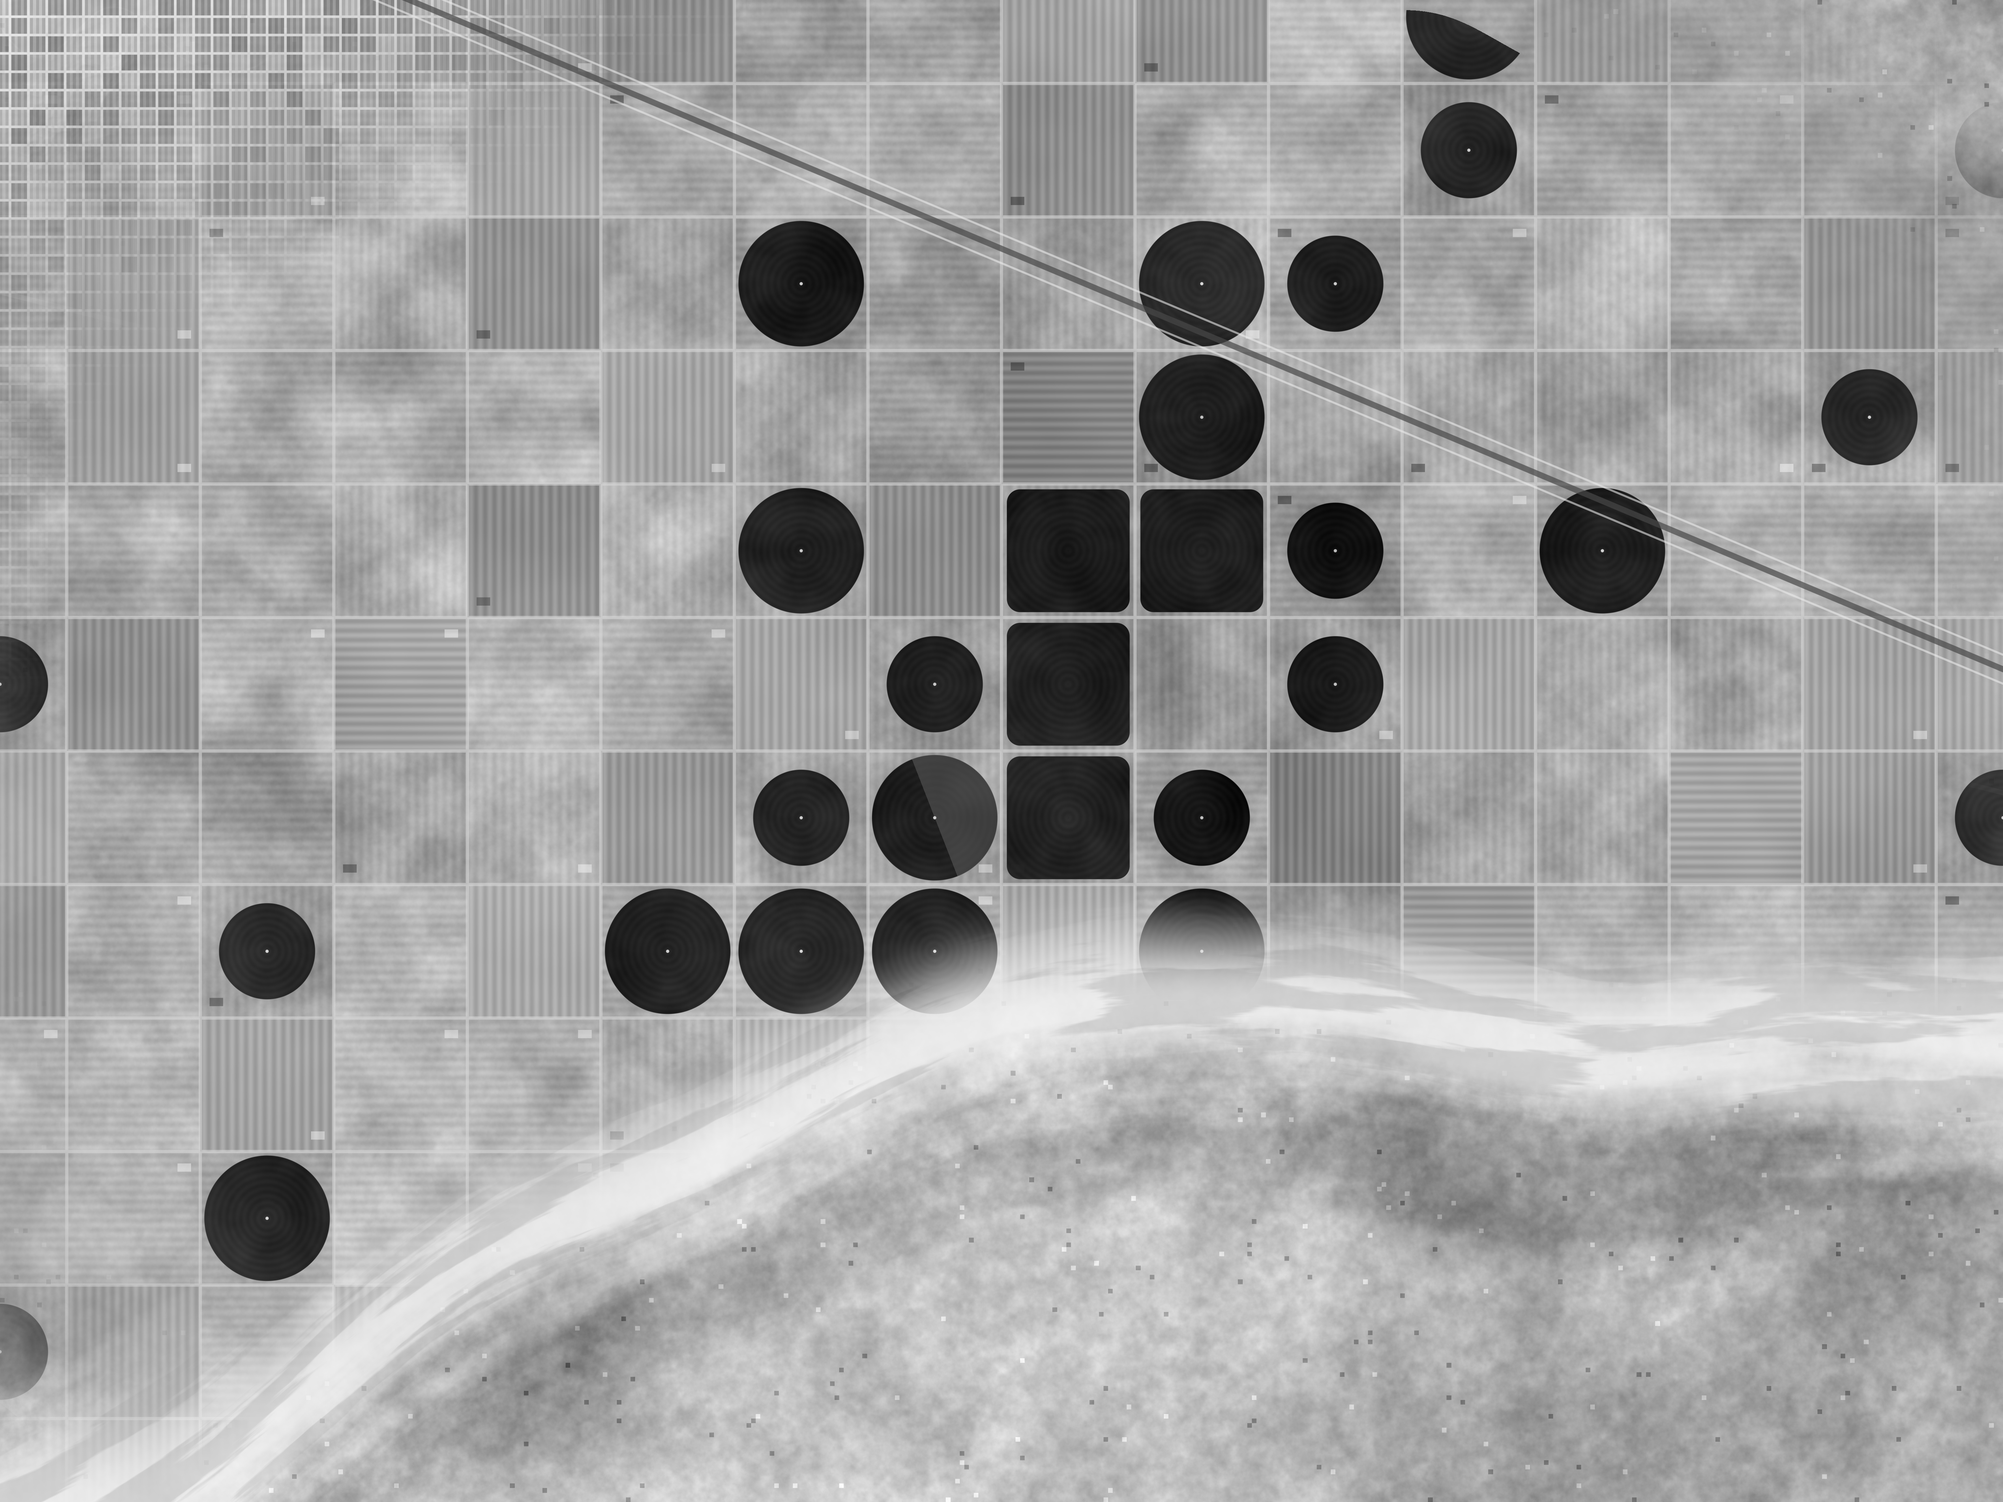
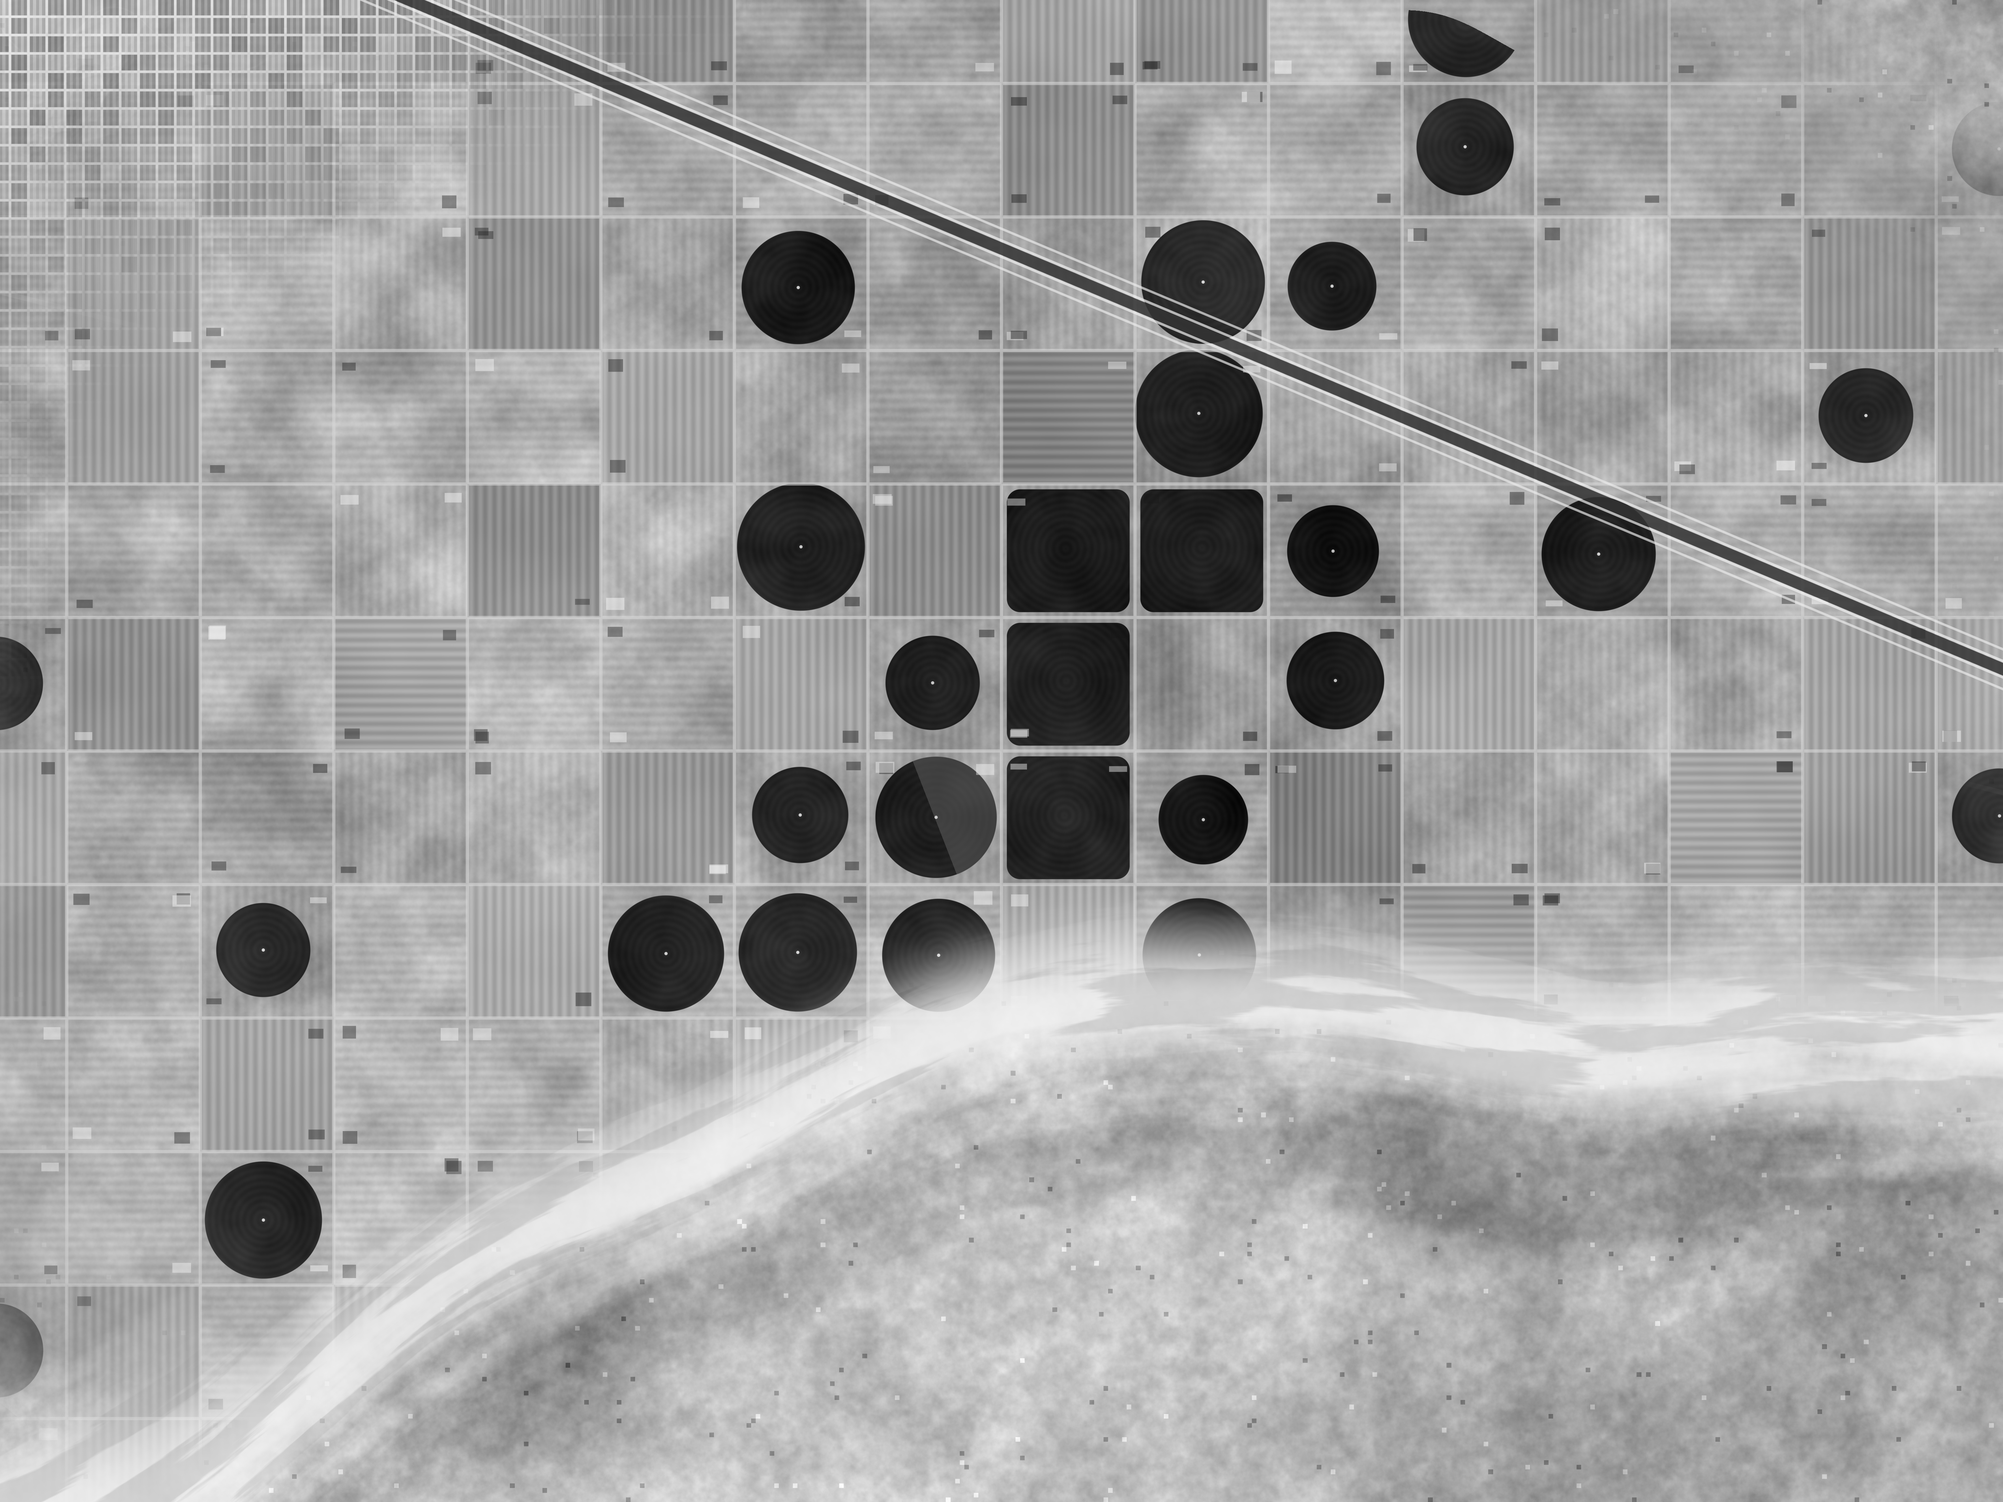
Satellite: apply QA review fixes (reticle scale, grade, halo timing, close-up detail); BT.709 output
Claude-Session: https://claude.ai/code/session_01D5eAzeygGp59oYigrUuiBk

diff --git a/hud-compositions/src/satellite/CloseHud.tsx b/hud-compositions/src/satellite/CloseHud.tsx
@@ -6,7 +6,7 @@ import { CrossMarker, CrossNode, DotMarker, LetterBadge } from "./icons";
 import { SatellitePalette } from "./palette";
 import { CLOSE_TARGET, SatelliteVariant, T } from "./timeline";
 
-const R = 230; // reticle radius, design px
+const R = 360; // reticle radius, design px
 const NODE_ANGLES = [-150, -112, -62, -24, 12, 52, 100, 128, 158, 196];
 // Inner relay points (fraction of R) joined to the centre by dashed lines.
 const RELAYS: { a: number; f: number; to: "center" | "left" | "right" | "bottom" }[] = [
@@ -85,17 +85,17 @@ export const CloseHud: React.FC<{
         ))}
       </g>
       {/* Corner brackets */}
-      <g stroke={palette.amber} strokeWidth={2.5} fill="none" opacity={brackets}>
+      <g stroke={palette.amber} strokeWidth={4} fill="none" opacity={brackets}>
         {[
           [-1, -1],
           [1, -1],
           [-1, 1],
           [1, 1],
         ].map(([sx, sy], i) => {
-          const s = 300 + (1 - brackets) * 60;
+          const s = 430 + (1 - brackets) * 60;
           const x = c.x - 40 + sx * s;
           const y = c.y - 30 + sy * s * 0.92;
-          return <path key={i} d={`M${x} ${y - sy * 50}L${x} ${y}L${x - sx * 50} ${y}`} />;
+          return <path key={i} d={`M${x} ${y - sy * 70}L${x} ${y}L${x - sx * 70} ${y}`} />;
         })}
       </g>
       {/* Reticle ring */}
@@ -112,7 +112,7 @@ export const CloseHud: React.FC<{
       />
       {NODE_ANGLES.map((a, i) => {
         const p = pt(a);
-        return <circle key={i} cx={p.x} cy={p.y} r={9} fill="rgba(12,16,20,0.6)" stroke={palette.white} strokeWidth={3.5} opacity={nodes(i)} />;
+        return <circle key={i} cx={p.x} cy={p.y} r={13} fill="rgba(12,16,20,0.6)" stroke={palette.white} strokeWidth={4.5} opacity={nodes(i)} />;
       })}
       {/* Relays and dashed links */}
       {RELAYS.map((r, i) => {
@@ -121,7 +121,7 @@ export const CloseHud: React.FC<{
         return (
           <g key={i} opacity={o}>
             <line x1={p.x} y1={p.y} x2={c.x} y2={c.y} stroke={palette.white} strokeWidth={2} strokeDasharray="4 6" opacity={0.85} />
-            <circle cx={p.x} cy={p.y} r={8} fill="rgba(12,16,20,0.6)" stroke={palette.white} strokeWidth={3.5} />
+            <circle cx={p.x} cy={p.y} r={12} fill="rgba(12,16,20,0.6)" stroke={palette.white} strokeWidth={4.5} />
           </g>
         );
       })}
@@ -129,15 +129,15 @@ export const CloseHud: React.FC<{
       <line x1={bottom.x} y1={bottom.y} x2={pt(90, 0.5).x} y2={pt(90, 0.5).y} stroke={palette.white} strokeWidth={2} strokeDasharray="3 5" opacity={big} />
       {/* Key nodes */}
       <g transform={`translate(${left.x} ${left.y}) scale(${0.6 + 0.4 * big})`}>
-        <circle r={26} fill="none" stroke={palette.amber} strokeWidth={6} opacity={big} />
-        <CrossNode x={0} y={0} r={15} color={palette.white} opacity={big} />
+        <circle r={40} fill="none" stroke={palette.amber} strokeWidth={8} opacity={big} />
+        <CrossNode x={0} y={0} r={24} color={palette.white} opacity={big} />
       </g>
       <g opacity={hostileFlash}>
-        <CrossNode x={right.x} y={right.y} r={19} color={sideColor} opacity={big} double={!hostile} />
-        <CrossNode x={bottom.x} y={bottom.y} r={19} color={sideColor} opacity={big} double={!hostile} />
+        <CrossNode x={right.x} y={right.y} r={30} color={sideColor} opacity={big} double={!hostile} />
+        <CrossNode x={bottom.x} y={bottom.y} r={30} color={sideColor} opacity={big} double={!hostile} />
       </g>
       {/* Centre target */}
-      <DotMarker x={c.x} y={c.y} r={8} core={palette.red} opacity={ring} />
+      <DotMarker x={c.x} y={c.y} r={12} core={palette.red} opacity={ring} />
       {/* Amber pulses */}
       {T.pulses.map((p0, i) => {
         const t = ramp(frame, p0, p0 + 22);
@@ -163,13 +163,13 @@ export const CloseHud: React.FC<{
         strokeDasharray={`${link} 1`}
       />
       <g transform={`translate(${c.x + R * 0.62} ${c.y - R * 0.78})`} opacity={bar}>
-        <rect width={150 * bar} height={10} fill={palette.amber} />
+        <rect width={190 * bar} height={13} fill={palette.amber} />
         <text y={-6} fontFamily={FONT_MONO} fontSize={9} fill={palette.white} opacity={0.9}>
           TRK 0417 / LOCK
         </text>
       </g>
       {/* Node captions */}
-      <g fontFamily={FONT_MONO} fontSize={8} fill={palette.white} opacity={big * 0.8}>
+      <g fontFamily={FONT_MONO} fontSize={12} fill={palette.white} opacity={big * 0.85}>
         <text x={left.x + 18} y={left.y + 28}>N-01 / 2.41</text>
         <text x={right.x + 22} y={right.y + 4}>N-04 / 1.87</text>
         <text x={bottom.x + 24} y={bottom.y + 4}>N-07 / 3.02</text>
@@ -182,14 +182,14 @@ export const CloseHud: React.FC<{
         const o = flickerIn(frame, T.contacts + i * 5, i + 20);
         return hostile ? (
           <g key={i} opacity={o * hostileFlash}>
-            <DotMarker x={p.x} y={p.y} r={5} core={palette.red} rim={palette.white} opacity={1} />
-            <circle cx={p.x} cy={p.y} r={14} fill="none" stroke={palette.red} strokeWidth={1.5} opacity={0.6} />
+            <DotMarker x={p.x} y={p.y} r={9} core={palette.red} rim={palette.white} opacity={1} />
+            <circle cx={p.x} cy={p.y} r={24} fill="none" stroke={palette.red} strokeWidth={1.5} opacity={0.6} />
           </g>
         ) : (
           <g key={i} opacity={o}>
-            <circle cx={p.x} cy={p.y} r={9} fill="none" stroke={palette.white} strokeWidth={2} />
-            <circle cx={p.x} cy={p.y} r={14} fill="none" stroke={palette.white} strokeWidth={1} strokeDasharray="2 4" />
-            <circle cx={p.x} cy={p.y} r={3} fill={palette.white} />
+            <circle cx={p.x} cy={p.y} r={14} fill="none" stroke={palette.white} strokeWidth={3} />
+            <circle cx={p.x} cy={p.y} r={22} fill="none" stroke={palette.white} strokeWidth={1.5} strokeDasharray="3 5" />
+            <circle cx={p.x} cy={p.y} r={5} fill={palette.white} />
           </g>
         );
       })}
@@ -198,9 +198,9 @@ export const CloseHud: React.FC<{
         y={60}
         textAnchor="end"
         fontFamily={FONT_LABEL}
-        fontSize={14}
+        fontSize={20}
         fill={palette.white}
-        opacity={0.6 * fieldIn}
+        opacity={0.7 * fieldIn}
         letterSpacing={2}
       >
         ZOOM 5.6X · SECTOR 61-A

diff --git a/hud-compositions/src/satellite/terrain.frag.ts b/hud-compositions/src/satellite/terrain.frag.ts
@@ -124,7 +124,9 @@ float farm(vec2 p, float px, float farmMask) {
     code = rnd < dens ? (rnd2 < 0.5 ? 1 : 5) : (rnd2 < 0.5 ? 0 : 4);
   }
   float w = px / cell;
-  float d = length(f);
+  // Organic jitter so pivots are not a perfect lattice.
+  vec2 fj = f - (vec2(rnd, rnd2) - 0.5) * 0.06;
+  float d = length(fj);
   // Bare soil base with plough striping.
   float stripe = 0.5 + 0.5 * sin((rnd2 > 0.5 ? f.x : f.y) * 90.0);
   float soil = 0.62 + 0.3 * (fbm(p * 1.5, px * 1.5, 7) - 0.5) + 0.1 * (rnd - 0.5) + 0.08 * (fbm(p * 12.0, px * 12.0, 4) - 0.5);
@@ -135,7 +137,7 @@ float farm(vec2 p, float px, float farmMask) {
   // Faint wheel-track rings on pivots.
   float rings = 0.012 * sin(d * 120.0) * clamp(1.0 - w * 60.0, 0.0, 1.0);
   if (code == 1 || code == 5 || code == 6 || code == 3) {
-    float r = code == 5 ? 0.36 : 0.47;
+    float r = (code == 5 ? 0.36 : 0.47) * (0.9 + 0.12 * rnd2);
     float inside = 1.0 - aaStep(r, d, w * 1.2);
     float crop = darkCrop + rings;
     if (code == 3) inside *= aaStep(0.0, f.x * (rnd > 0.5 ? 1.0 : -1.0), w);
@@ -152,11 +154,15 @@ float farm(vec2 p, float px, float farmMask) {
     lum = mix(lum, darkCrop + rings, 1.0 - aaStep(0.0, sd, w));
   }
   // Farmsteads: small buildings in some corners.
-  vec2 corner = f - vec2(0.38, -0.38) * sign(vec2(rnd - 0.5, rnd2 - 0.5));
-  vec2 bq = abs(corner) - vec2(0.05, 0.03);
-  float bd = length(max(bq, 0.0));
-  float bmask = (hash21(vec2(c) + 77.0) > 0.55) ? 1.0 - aaStep(0.0, bd, w) : 0.0;
-  lum = mix(lum, rnd > 0.5 ? 0.95 : 0.15, bmask * 0.9);
+  for (int k = 0; k < 3; k++) {
+    float hk = hash21(vec2(c) + 77.0 + float(k) * 13.0);
+    if (hk < 0.45) continue;
+    vec2 at = vec2(hash21(vec2(c) * 3.1 + float(k)), hash21(vec2(c) * 5.7 + float(k))) - 0.5;
+    at = sign(at) * (0.36 + 0.08 * abs(at));
+    vec2 bq = abs(f - at) - vec2(0.03 + 0.04 * hk, 0.02 + 0.03 * rnd);
+    float bmask = 1.0 - aaStep(0.0, length(max(bq, 0.0)), w);
+    lum = mix(lum, hk > 0.75 ? 0.95 : 0.12, bmask * 0.9);
+  }
   // Regional blotches that ignore field boundaries.
   lum += 0.2 * (fbm(p * 0.35 + 8.0, px * 0.35, 5) - 0.5);
   // Section roads between fields.
@@ -243,8 +249,9 @@ float terrain(vec2 p, float px) {
 
   // --- highway / rail and desert tracks
   float hd = abs(dot(p - vec2(1.0, 5.6), normalize(vec2(0.42, 1.0))));
-  lum = mix(lum, 0.28, (1.0 - aaStep(0.035, hd, px)) * 0.7);
-  lum = mix(lum, 0.92, (1.0 - aaStep(0.012, abs(hd - 0.16), px)) * 0.6);
+  lum = mix(lum, 0.2, (1.0 - aaStep(0.07, hd, px)) * 0.85);
+  lum = mix(lum, 0.95, (1.0 - aaStep(0.015, abs(hd - 0.09), px)) * 0.7);
+  lum = mix(lum, 0.92, (1.0 - aaStep(0.014, abs(hd - 0.22), px)) * 0.7);
   float t1 = abs(dot(p - vec2(-30.0, 10.0), normalize(vec2(0.25, 1.0))));
   lum = mix(lum, 0.85, (1.0 - aaStep(0.03, t1, px)) * 0.4 * (1.0 - fmask) * (1.0 - m));
   float t2 = abs(p.x - 14.0 + 0.3 * p.y);
@@ -344,7 +351,7 @@ float sampleTerrain(vec2 p, float px) {
 
 vec3 grade(float l) {
   l = clamp(l * uExposure, 0.0, 1.0);
-  l = mix(l, l * l * (3.0 - 2.0 * l), 0.45); // S-curve contrast
+  l = mix(l, l * l * (3.0 - 2.0 * l), 0.7); // S-curve contrast
   vec3 c = l < 0.5 ? mix(uShadow, uMid, l * 2.0) : mix(uMid, uLight, l * 2.0 - 1.0);
   return c;
 }
@@ -385,11 +392,11 @@ void main() {
     // Frosted ring: terrain pushed toward white with soft, noisy edges.
     float n = fbm(dv * 40.0 + 3.0, 0.0, 4);
     float ring = smoothstep(rIn - 0.004, rIn + 0.002, r) * (1.0 - smoothstep(rOut - 0.02 - 0.015 * n, rOut + 0.004, r));
-    vec3 frost = mix(col, vec3(0.93, 0.96, 0.98), 0.72 + 0.18 * (n - 0.5));
+    vec3 frost = mix(col, vec3(0.94, 0.97, 0.99), 0.84 + 0.14 * (n - 0.5));
     frost += 0.04 * (fbm(p * 1.5, px, 3) - 0.5);
     // Interior: brightened and tinted.
     float inner = 1.0 - smoothstep(rIn - 0.002, rIn + 0.002, r);
-    vec3 tinted = mix(col, col * uLensTint * 1.05 + 0.05, 0.75);
+    vec3 tinted = mix(col, col * uLensTint * 1.05 + 0.06, 0.65);
     // Radar sweep wedge trailing the sweep angle.
     float sa = atan(dv.x, -dv.y);
     float rel = fract((uSweep - sa) / 6.2831853);

diff --git a/hud-compositions/src/satellite/timeline.ts b/hud-compositions/src/satellite/timeline.ts
@@ -8,10 +8,10 @@ export type SatelliteVariant = "reference" | "orbit";
  */
 export const T = {
   targetPing: 108, // 3.6 s red target dot pops on the pivot cluster
-  iconC: 135, // 4.5 s "C" scan icon + dashed range circle
-  lensStart: 150, // 5.0 s frosted halo sweeps on clockwise
-  lensFull: 168, // 5.6 s
-  amberRing: 168, // 5.6 s amber lens rim + label bar
+  iconC: 128, // 4.3 s "C" scan icon + dashed range circle
+  lensStart: 138, // 4.6 s frosted halo sweeps on clockwise
+  lensFull: 162, // 5.4 s
+  amberRing: 164, // 5.5 s amber lens rim + label bar
   zoomStart: 360, // 12.0 s dive into the farm district
   zoomEnd: 398, // 13.3 s
   lockOn: 480, // 16.0 s targeting reticle draws on
@@ -24,7 +24,7 @@ export const T = {
 /** World point the scan locks on to in the regional shot. */
 export const WIDE_TARGET = { x: 0.4, y: 1.2 };
 /** World point at the centre of the close-up reticle. */
-export const CLOSE_TARGET = { x: 0.4, y: 0.5 };
+export const CLOSE_TARGET = { x: 0.4, y: 1.3 };
 
 const wideRef = (f: number): Camera => {
   const t = ramp(f, 0, T.zoomStart);
@@ -40,8 +40,8 @@ const wideRef = (f: number): Camera => {
 const closeRef = (f: number): Camera => {
   const t = ramp(f, T.zoomEnd, 668);
   return {
-    cx: lerp(0.5, 0.15, t),
-    cy: lerp(0.3, 0.6, t),
+    cx: lerp(1.45, 1.15, t),
+    cy: lerp(1.15, 1.45, t),
     span: lerp(7.0, 6.5, t),
     rot: lerp(0.0, -0.012, t),
     tilt: 0.16,
@@ -62,8 +62,8 @@ const wideOrbit = (f: number): Camera => {
 const closeOrbit = (f: number): Camera => {
   const t = ramp(f, T.zoomEnd, 668);
   return {
-    cx: lerp(0.5, 0.3, t),
-    cy: lerp(0.3, 0.6, t),
+    cx: lerp(1.2, 1.0, t),
+    cy: lerp(1.0, 1.4, t),
     span: lerp(6.4, 5.8, t),
     rot: lerp(0.45, 0.95, t),
     tilt: lerp(0.78, 0.86, t),

diff --git a/hud-compositions/src/satellite/SatelliteTargeting.tsx b/hud-compositions/src/satellite/SatelliteTargeting.tsx
@@ -24,7 +24,7 @@ export const satelliteSchema = z.object({
 export type SatelliteProps = z.infer<typeof satelliteSchema>;
 
 /** Lens radius (fraction of frame height) at rest in the regional shot. */
-const LENS_R = 0.36;
+const LENS_R = 0.37;
 
 export const SatelliteTargeting: React.FC<SatelliteProps> = ({ variant }) => {
   useFonts();
@@ -42,8 +42,7 @@ export const SatelliteTargeting: React.FC<SatelliteProps> = ({ variant }) => {
 
   // Exposure pop as the scan engages and a soft flash at the end of the dive.
   const flash =
-    0.14 * Math.exp(-Math.pow((frame - T.lensStart - 4) / 6, 2)) +
-    0.1 * Math.exp(-Math.pow((frame - T.zoomEnd + 6) / 5, 2));
+    0.12 * Math.exp(-Math.pow((frame - T.lensStart - 4) / 6, 2));
 
   const uniforms = useMemo(
     () => ({
@@ -53,7 +52,10 @@ export const SatelliteTargeting: React.FC<SatelliteProps> = ({ variant }) => {
       uMid: pal.mid,
       uLight: pal.light,
       uGridColor: pal.grid,
-      uGridAlpha: frame < T.zoomEnd ? 0.16 : 0.1,
+      // Fade the ground grid out and back in around the period switch.
+      uGridAlpha:
+        (frame < (T.zoomStart + T.zoomEnd) / 2 ? 0.16 : 0.1) *
+        Math.min(1, Math.abs(frame - (T.zoomStart + T.zoomEnd) / 2) / 10),
       uGridPeriod: frame < (T.zoomStart + T.zoomEnd) / 2 ? 8 : 1.6,
       uLensC: tgt ? [tgt.x / DESIGN_WIDTH, tgt.y / DESIGN_HEIGHT] : [0.5, 0.5],
       uLensR: lensR,
@@ -64,8 +66,8 @@ export const SatelliteTargeting: React.FC<SatelliteProps> = ({ variant }) => {
       uHaze: pal.haze,
       uWideB: [...WIDE_BOUNDS],
       uCloseB: [...CLOSE_BOUNDS],
-      uExposure: 1.1 + flash,
-      uVignette: 0.55,
+      uExposure: 1.05 + flash,
+      uVignette: 0.7,
     }),
     // eslint-disable-next-line react-hooks/exhaustive-deps
     [frame, variant],

diff --git a/hud-compositions/src/satellite/WideHud.tsx b/hud-compositions/src/satellite/WideHud.tsx
@@ -161,6 +161,15 @@ export const WideHud: React.FC<{
             </g>
             {LENS_MARKERS.map((m, i) => {
               const p = project(cam, WIDE_TARGET.x + m.dx, WIDE_TARGET.y + m.dy, W, H);
+              if (!p || m.kind === "cross" || m.kind === "square") return null;
+              return (
+                <text key={`t${i}`} x={p.x + 12} y={p.y - 9} fontFamily={FONT_MONO} fontSize={9} fill={palette.white} opacity={markersIn(i) * 0.8}>
+                  {`T-${String(i + 1).padStart(2, "0")}`}
+                </text>
+              );
+            })}
+            {LENS_MARKERS.map((m, i) => {
+              const p = project(cam, WIDE_TARGET.x + m.dx, WIDE_TARGET.y + m.dy, W, H);
               if (!p) return null;
               const o = markersIn(i);
               switch (m.kind) {

diff --git a/hud-compositions/src/satellite/palette.ts b/hud-compositions/src/satellite/palette.ts
@@ -13,11 +13,11 @@ export type SatellitePalette = {
 
 /** Cold monochrome satellite grade with amber/red HUD accents (reference). */
 export const SATELLITE_PALETTE: SatellitePalette = {
-  shadow: [0.055, 0.075, 0.095],
-  mid: [0.47, 0.54, 0.6],
+  shadow: [0.03, 0.045, 0.065],
+  mid: [0.4, 0.48, 0.56],
   light: [0.95, 0.975, 0.99],
   grid: [0.62, 0.86, 0.9],
-  lensTint: [0.9, 0.93, 0.8],
+  lensTint: [0.93, 0.96, 0.88],
   haze: [0.62, 0.68, 0.72],
   amber: "#E9A23B",
   red: "#E0283F",
